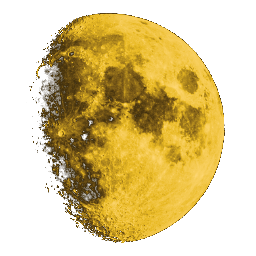
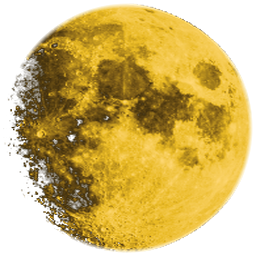
Support page + supporter perk polish
- /support page: perks, redemption steps, cosmetic-only pledge, CTA;
  route in server.py; Support link in site nav + game menu (nav v7)
- emote palette opens beside the felt (never covers a seat name),
  supporter pack section is collapsible (state remembered) and links
  to /support; locked supporter emotes open /support
- seat tags: supporter badge is now a coin filling the capsule's left
  end cap; badge asset rebuilt (bright-disc centered, full-bleed,
  circle-masked)
- review/profile badge styles matched to the disc-mount look
- about page: support blurb

diff --git a/hearts_web/static/index.html b/hearts_web/static/index.html
@@ -122,7 +122,20 @@
   .panel h3 { font-size:.75rem; color:var(--muted); text-transform:uppercase; margin-bottom:5px; }
   .panel .mini { display:inline-flex; margin:1px; }
   .seat { position:absolute; text-align:center; font-size:.82rem; color:var(--seat-text); }
-  .seat .tag { background:var(--tag-bg); padding:2px 10px; border-radius:10px; white-space:nowrap; }
+  /* inline-flex so the oversized badge and the name center on each
+     other instead of fighting over the text baseline */
+  .seat .tag { background:var(--tag-bg); padding:2px 10px; border-radius:10px; white-space:nowrap;
+               display:inline-flex; align-items:center; gap:4px;
+               line-height:1.3; }
+  /* supporter tags become true capsules; the badge coin IS the left
+     end cap: its height is EXACTLY the pill's (1.3em line + 2x2px
+     padding, bled over by the negative margins). Explicit height -
+     never auto/stretch: the img's intrinsic 256px would inflate the
+     pill (the giant-moon incident) */
+  .seat .tag:has(.supbadge) { border-radius:999px; padding-left:0; }
+  .seat .tag .supbadge { margin:-2px 0; vertical-align:baseline;
+                         height:calc(1.3em + 4px);
+                         aspect-ratio:1; padding:2px; }
   .seat.active .tag { background:var(--gold); color:#222; font-weight:600; }
   #seat-top { top:8px; left:50%; transform:translateX(-50%); }
   #seat-left { left:8px; top:50%; transform:translateY(-50%); }
@@ -258,8 +271,12 @@
   #emote-btn:hover { color:var(--text); }
   #emote-btn svg { display:block; }
   #emote-btn:disabled { opacity:.45; cursor:default; }
-  #emote-pal { display:none; position:absolute; right:0;
-               bottom:calc(100% + 8px); background:var(--overlay-panel);
+  /* opens BESIDE the felt (right edge, flush with its bottom) so the
+     palette never covers a seat name; narrow layouts fall back to the
+     old above-the-button popover (media query below) */
+  #emote-pal { display:none; position:absolute;
+               left:calc(100% + 22px); bottom:-8px;
+               background:var(--overlay-panel);
                border:1px solid #2E2E33; border-radius:11px;
                padding:9px 10px; width:212px;
                box-shadow:0 6px 18px rgba(0,0,0,.5); }
@@ -277,9 +294,20 @@
   #emote-pal .locked { opacity:.35; cursor:default; }
   #emote-pal .locked:hover { background:var(--tag-bg); }
   #emote-pal .esup { font-size:.66rem; color:var(--muted, #A6A6AF);
-    margin:9px 0 4px; display:flex; align-items:center; gap:5px; }
+    margin:9px 0 4px; display:flex; align-items:center; gap:5px;
+    cursor:pointer; user-select:none; }
   #emote-pal .esup img { width:13px; height:13px; }
-  .supbadge { height:.95em; vertical-align:-.12em; margin-right:4px; }
+  #emote-pal .esup a { color:inherit; display:inline-flex;
+    align-items:center; gap:5px; text-decoration:none; }
+  #emote-pal .esup a:hover { color:var(--text);
+    text-decoration:underline; }
+  #emote-pal .esup .chev { margin-left:auto; font-size:.6rem; }
+  /* dark disc mount: keeps the gold moon legible on the gold
+     active-turn pill; near-invisible on dark chips. Oversized on
+     purpose (border-box: padding eats height, so 1.3em keeps the
+     moon itself bigger than the bare .95em original) */
+  .supbadge { height:1.3em; vertical-align:-.35em; margin-right:4px;
+              background:#18181B; border-radius:50%; padding:2px; }
   #emote-pal .ehide { display:block; text-align:center; margin-top:8px;
                       font-size:.68rem; }
   .emote-bubble { position:absolute;
@@ -571,6 +599,7 @@
     #table { width:min(92vw, 950px); }
     #side { position:static; margin-left:0; width:min(92vw, 950px);
             flex-direction:row; flex-wrap:wrap; }
+    #emote-pal { left:auto; right:0; bottom:calc(100% + 8px); }
     #dev-controls { position:static; margin:0; width:auto; text-align:center; } }
   /* Phones: smaller trick footprint (no seat-tag collisions), toggle in
      flow (no header overlap), tagline on its own line. The side panels
@@ -617,6 +646,7 @@
     <a href="/account">Account</a>
     <a href="/about">About</a>
     <a href="/how">How it's built</a>
+    <a href="/support">Support <span style="color:#E5484D">&hearts;</span></a>
   </div>
 </div>
   <svg class="logo" width="20" height="20" viewBox="0 0 32 32"><rect width="32" height="32" rx="7" fill="#00000055"/><path d="M11 27 V7 H17.5 a6.5 6.5 0 0 1 0 13 H11" fill="none" stroke="#ECECEC" stroke-width="3.4" stroke-linecap="round" stroke-linejoin="round"/><circle cx="25.2" cy="7.6" r="3.1" fill="#E5484D"/></svg>
@@ -887,25 +917,44 @@ function buildEmotePal() {
                         : (pic ? pics : texts)).push([id, v]);
   }
   const lock = sup ? '' : ' locked';
-  const ltitle = sup ? '' : ' title="supporter emote"';
+  const ltitle = sup ? '' : ' title="supporter emote - tap to learn more"';
+  const supCollapsed =
+    localStorage.getItem('hearts_sup_collapsed') === '1';
   el('emote-pal').innerHTML =
     `<div class="erow">${pics.map(([id, cp]) =>
       `<button class="eb" data-e="${id}"><img
          src="/static/emotes/${cp}.svg" alt="${id}"></button>`).join('')}</div>
      <div class="erow" style="margin-top:7px">${texts.map(([id, t]) =>
       `<button class="et" data-e="${id}">${t}</button>`).join('')}</div>
-     <div class="esup"><img src="/static/sup_badge.png" alt=""> supporter
-       pack</div>
-     <div class="erow">${spics.map(([id, cp]) =>
+     <div class="esup" id="esup-row" title="${supCollapsed
+       ? 'show' : 'hide'} supporter emotes"><a id="esup-link"
+       href="/support" target="_blank" rel="noopener"
+       title="become a supporter"><img
+       src="/static/sup_badge.png" alt=""> supporter pack</a><span
+       class="chev">${supCollapsed ? '&#9656;' : '&#9662;'}</span></div>`
+    + (supCollapsed ? '' :
+    `<div class="erow">${spics.map(([id, cp]) =>
       `<button class="eb${lock}" data-e="${id}"${ltitle}><img
          src="/static/emotes/${cp}.svg" alt="${id}"></button>`).join('')}</div>
      <div class="erow" style="margin-top:7px">${stexts.map(([id, t]) =>
-      `<button class="et${lock}" data-e="${id}"${ltitle}>${t}</button>`).join('')}</div>
-     <a href="#" id="emote-hide" class="qlink ehide">${
+      `<button class="et${lock}" data-e="${id}"${ltitle}>${t}</button>`).join('')}</div>`)
+    + `<a href="#" id="emote-hide" class="qlink ehide">${
        emoteHidden() ? 'show emotes' : 'hide emotes'}</a>`;
+  // header toggles the section (state persists); the text itself is the
+  // Patreon link - link clicks navigate, not toggle
+  el('esup-row').onclick = ev => {
+    ev.stopPropagation();               // keep the palette open
+    if (ev.target.closest('#esup-link')) return;
+    localStorage.setItem('hearts_sup_collapsed', supCollapsed ? '0' : '1');
+    buildEmotePal();
+  };
   el('emote-pal').querySelectorAll('[data-e]').forEach(btn => {
-    btn.onclick = async () => {
-      if (btn.classList.contains('locked')) return;  // server 403s anyway
+    btn.onclick = async ev => {
+      if (btn.classList.contains('locked')) {       // server 403s anyway;
+        ev.stopPropagation();                       // highest-intent moment:
+        window.open('/support', '_blank', 'noopener');  // show the pitch
+        return;
+      }
       el('emote-pal').classList.remove('open');
       const eb = el('emote-btn');
       eb.disabled = true;                       // felt cooldown

diff --git a/hearts_web/static/support.html b/hearts_web/static/support.html
@@ -1,0 +1,108 @@
+<!DOCTYPE html>
+<html lang="en">
+<head>
+<meta charset="utf-8">
+<meta name="viewport" content="width=device-width, initial-scale=1">
+<title>Support Perilune</title>
+<meta name="description" content="Perilune is free to play — no ads, no accounts. Supporters keep the table running and get a moon badge by their name plus an exclusive emote pack.">
+<link rel="icon" href="/static/favicon.svg" type="image/svg+xml">
+<meta property="og:site_name" content="Perilune">
+<meta property="og:type" content="website">
+<meta property="og:title" content="Support Perilune">
+<meta property="og:description" content="Keep the table running — and wear the moon by your name in every game.">
+<meta property="og:image" content="https://play.perilune.ai/static/og.png">
+<meta name="twitter:card" content="summary_large_image">
+<style>
+  @font-face { font-family:'Space Grotesk';
+    src:url('/static/fonts/space-grotesk.woff2') format('woff2');
+    font-weight:300 700; font-display:swap; }
+  body { font-family:system-ui, sans-serif; background:#121212; color:#ECECEC;
+         max-width:640px; margin:0 auto; padding:32px 20px; line-height:1.55; }
+  h1 { font-family:'Space Grotesk', system-ui, sans-serif; color:#FFD97A;
+       font-size:1.9rem; margin-bottom:2px; }
+  h2 { font-family:'Space Grotesk', system-ui, sans-serif; color:#A6A6AF;
+       font-size:1.05rem; margin:26px 0 6px; }
+  .tag { color:#A6A6AF; font-style:italic; margin-bottom:18px; }
+  a { color:#E8B923; }
+  p { margin:10px 0; }
+  b { color:#ECECEC; }
+  .dot { color:#E5484D; }
+  .perk { background:#1E1E21; border-radius:12px; padding:14px 16px;
+          margin:12px 0; }
+  .perk h3 { font-size:.95rem; margin-bottom:4px; color:#ECECEC;
+             display:flex; align-items:center; gap:8px; }
+  .perk p { font-size:.88rem; color:#C9C9CF; margin:4px 0 0; }
+  .perk .badge { width:22px; height:22px; }
+  .namedemo { display:inline-flex; align-items:center; gap:5px;
+              background:#26262A; border-radius:7px; padding:3px 10px;
+              font-size:.85rem; }
+  .namedemo img { width:15px; height:15px; }
+  .emotes { display:flex; flex-wrap:wrap; gap:7px; align-items:center;
+            margin-top:9px; }
+  .emotes img { width:26px; height:26px; background:#26262A;
+                border-radius:8px; padding:5px; }
+  .emotes .chip { background:#26262A; border-radius:999px; padding:5px 12px;
+                  font-size:.78rem; }
+  .steps { margin:8px 0 0; padding-left:20px; }
+  .steps li { margin:6px 0; }
+  .fair { font-size:.85rem; color:#A6A6AF; background:#1E1E21;
+          border-radius:10px; padding:10px 14px; margin:16px 0; }
+  .cta { display:inline-block; background:#E8B923; color:#121212;
+         font-weight:700; font-size:1rem; border-radius:10px;
+         padding:12px 26px; text-decoration:none; margin:14px 0 4px; }
+  .cta:hover { background:#FFD97A; }
+  .ctasub { font-size:.78rem; color:#A6A6AF; margin-top:2px; }
+</style>
+</head>
+<body>
+<h1>Support Perilune<span class="dot">.</span></h1>
+<div class="tag">free to play, kept alive by the people at the table</div>
+
+<p>Perilune has no ads, no accounts, and no paywalls &mdash; and it never
+will. But the table runs on real servers, and the AI trains on real
+GPUs. Supporters cover those bills and fund what gets built next.</p>
+
+<h2>What supporters get</h2>
+<div class="perk">
+  <h3><img class="badge" src="/static/sup_badge.png" alt=""> The moon by
+    your name</h3>
+  <p>A supporter badge &mdash; an actual photograph of the moon &mdash;
+  next to your name in every game you play, visible to everyone at the
+  table: <span class="namedemo"><img src="/static/sup_badge.png" alt="">
+  YourName</span></p>
+</div>
+<div class="perk">
+  <h3>The supporter emote pack</h3>
+  <p>Eight extra emotes only supporters can send:</p>
+  <div class="emotes">
+    <img src="/static/emotes/1f315.svg" alt="full moon">
+    <img src="/static/emotes/1f31a.svg" alt="new moon">
+    <img src="/static/emotes/1f680.svg" alt="rocket">
+    <img src="/static/emotes/2604.svg" alt="comet">
+    <img src="/static/emotes/2b50.svg" alt="star">
+    <span class="chip">to the moon!</span>
+    <span class="chip">crash landing</span>
+    <span class="chip">perilune.</span>
+  </div>
+</div>
+
+<h2>How it works</h2>
+<ol class="steps">
+  <li>Join on Patreon.</li>
+  <li>Send your in-game player name in a Patreon message (or attach it
+      to your join note).</li>
+  <li>Your badge and emotes switch on &mdash; usually within a day.</li>
+</ol>
+
+<div class="fair">Perks are <b>purely cosmetic</b>. Supporting never
+buys stronger cards, hints, or any gameplay advantage &mdash; the AI
+plays you exactly the same either way.</div>
+
+<a class="cta" href="https://www.patreon.com/Perilune" target="_blank"
+   rel="noopener">Become a supporter &rarr;</a>
+<div class="ctasub">$5/month on Patreon &middot; cancel anytime</div>
+
+<p style="margin-top:22px"><a href="/">&larr; back to the table</a></p>
+<script src="/static/nav.js?v=7"></script>
+</body>
+</html>

diff --git a/hearts_web/static/review.html b/hearts_web/static/review.html
@@ -776,7 +776,7 @@ function render() {
       style="border-left:3px solid ${SEAT_COLORS[s]}${
         s === acting ? `;background:${SEAT_COLORS[s]}` : ''}">${
         (R.seat_sup && R.seat_sup[String(s)])
-          ? '<img src="/static/sup_badge.png" alt="supporter" title="supporter" style="height:.9em;vertical-align:-.1em;margin-right:4px">'
+          ? '<img src="/static/sup_badge.png" alt="supporter" title="supporter" style="height:1.6em;vertical-align:-.45em;margin-right:5px;background:#18181B;border-radius:50%;padding:2px">'
           : ''}${esc(seatLabel(s))}
       &middot; ${deal._totals_before[s]} <small>(+${taken[s]})</small></span>`;
   // Deal-start step shows the PRE-pass hand with the outgoing three
@@ -2652,6 +2652,6 @@ try {
   if (!localStorage.getItem('perilune-review-help')) showHelp(true);
 } catch (e) {}
 </script>
-<script src="/static/nav.js?v=6"></script>
+<script src="/static/nav.js?v=7"></script>
 </body>
 </html>

diff --git a/hearts_web/static/about.html b/hearts_web/static/about.html
@@ -50,13 +50,15 @@ never does.</p>
 end - engine, search, training loops, and measurement discipline. The
 pipeline and the gates that decide what ships are explained on
 <a href="/how">How it's built</a>. An open-source release of the code,
-models, and methodology is planned.</p>
+models, and methodology is planned. If you'd like to help keep the
+table running, see <a href="/support">Support</a> &mdash; supporters
+get a moon badge by their name and an exclusive emote pack.</p>
 
 <p style="font-size:.8rem; opacity:.7">Emote artwork:
 <a href="https://github.com/jdecked/twemoji">Twemoji</a>, licensed
 CC-BY 4.0.</p>
 
 <p><a href="/">&larr; back to the table</a></p>
-<script src="/static/nav.js?v=6"></script>
+<script src="/static/nav.js?v=7"></script>
 </body>
 </html>

diff --git a/hearts_web/static/progress.html b/hearts_web/static/progress.html
@@ -312,8 +312,9 @@ const roll = (vals, w) => vals.map((_, i) => {
     if (window._is_sup && !h1.querySelector('img'))
       h1.insertAdjacentHTML('afterbegin',
         '<img src="/static/sup_badge.png" alt="supporter"'
-        + ' title="supporter" style="height:.9em;'
-        + ' vertical-align:-.08em; margin-right:6px">');
+        + ' title="supporter" style="height:1.15em;'
+        + ' vertical-align:-.2em; margin-right:8px;'
+        + ' background:#18181B; border-radius:50%; padding:3px">');
   };
   addSupBadge();
   if (PLAYER && pubName) {
@@ -803,6 +804,6 @@ const roll = (vals, w) => vals.map((_, i) => {
   renderAll();
 })();
 </script>
-<script src="/static/nav.js?v=6"></script>
+<script src="/static/nav.js?v=7"></script>
 </body>
 </html>

diff --git a/hearts_web/static/leaderboard.html b/hearts_web/static/leaderboard.html
@@ -32,7 +32,8 @@
   a.p { color:#ECECEC; text-decoration:none; }
   a.p:hover { color:#E8B923; }
   a.sc { font-weight:700; }
-  .supbadge { height:.95em; vertical-align:-.12em; margin-right:5px; }
+  .supbadge { height:1.3em; vertical-align:-.35em; margin-right:5px;
+              background:#18181B; border-radius:50%; padding:2px; }
   .eras a { margin-right:10px; }
 </style>
 </head>
@@ -225,6 +226,6 @@ function flashRow(table, slug) {
     pagerHtml(doff, d.rows.length, total, 'doff'));
 })();
 </script>
-<script src="/static/nav.js?v=6"></script>
+<script src="/static/nav.js?v=7"></script>
 </body>
 </html>

diff --git a/hearts_web/static/nav.js b/hearts_web/static/nav.js
@@ -53,6 +53,8 @@
         <a href="/account">Account</a>
         <a href="/about">About</a>
         <a href="/how">How it's built</a>
+        <a href="/support">Support <span
+           style="color:#E5484D">&hearts;</span></a>
       </div></div>`;
   document.body.appendChild(band);
   const dd = band.querySelector('#sitenav-dd');

diff --git a/hearts_web/static/how.html b/hearts_web/static/how.html
@@ -156,6 +156,6 @@ if (new URLSearchParams(location.search).get('from') === 'home') {
   b.innerHTML = '&larr; back to home';
 }
 </script>
-<script src="/static/nav.js?v=6"></script>
+<script src="/static/nav.js?v=7"></script>
 </body>
 </html>

diff --git a/hearts_web/static/account.html b/hearts_web/static/account.html
@@ -135,6 +135,6 @@ if (!pid) {
   };
 }
 </script>
-<script src="/static/nav.js?v=6"></script>
+<script src="/static/nav.js?v=7"></script>
 </body>
 </html>

diff --git a/hearts_web/server.py b/hearts_web/server.py
@@ -3024,6 +3024,12 @@ def how_page():
                                      'static', 'how.html'))
 
 
+@app.get('/support')
+def support_page():
+    return FileResponse(os.path.join(os.path.dirname(os.path.abspath(__file__)),
+                                     'static', 'support.html'))
+
+
 # ---- Open Graph preview cards ---------------------------------------------
 # Link previews (Discord/iMessage/Slack/Twitter) fetch without JS, so
 # the meta tags are injected server-side at the <!--OG--> marker.
